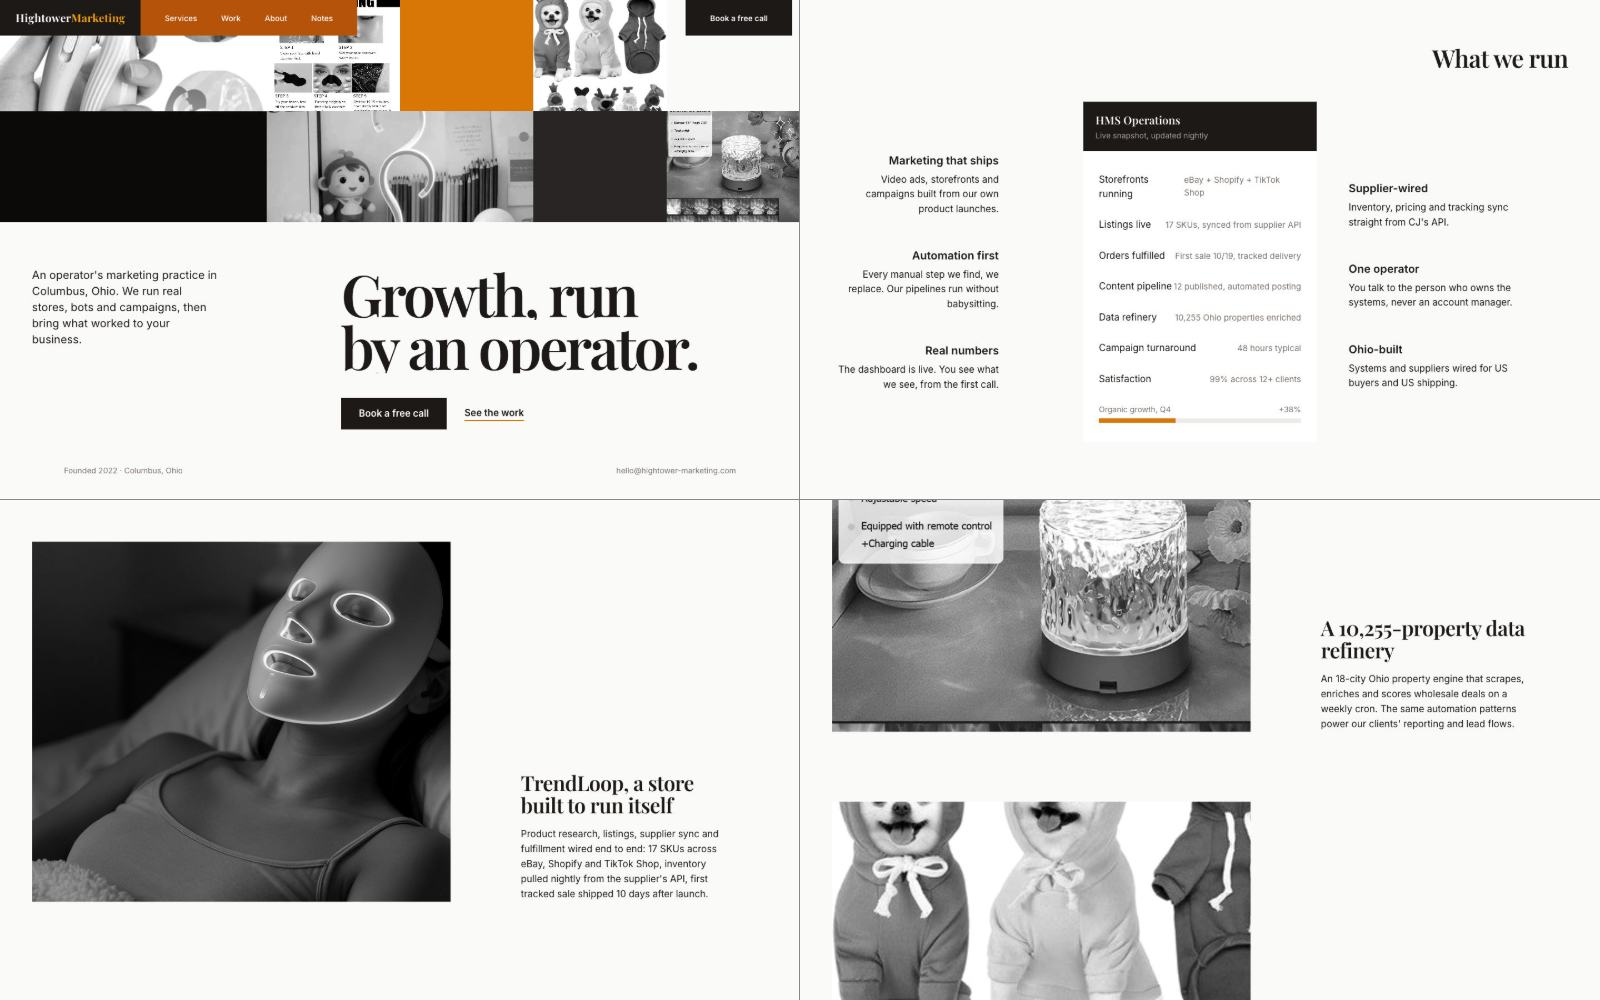
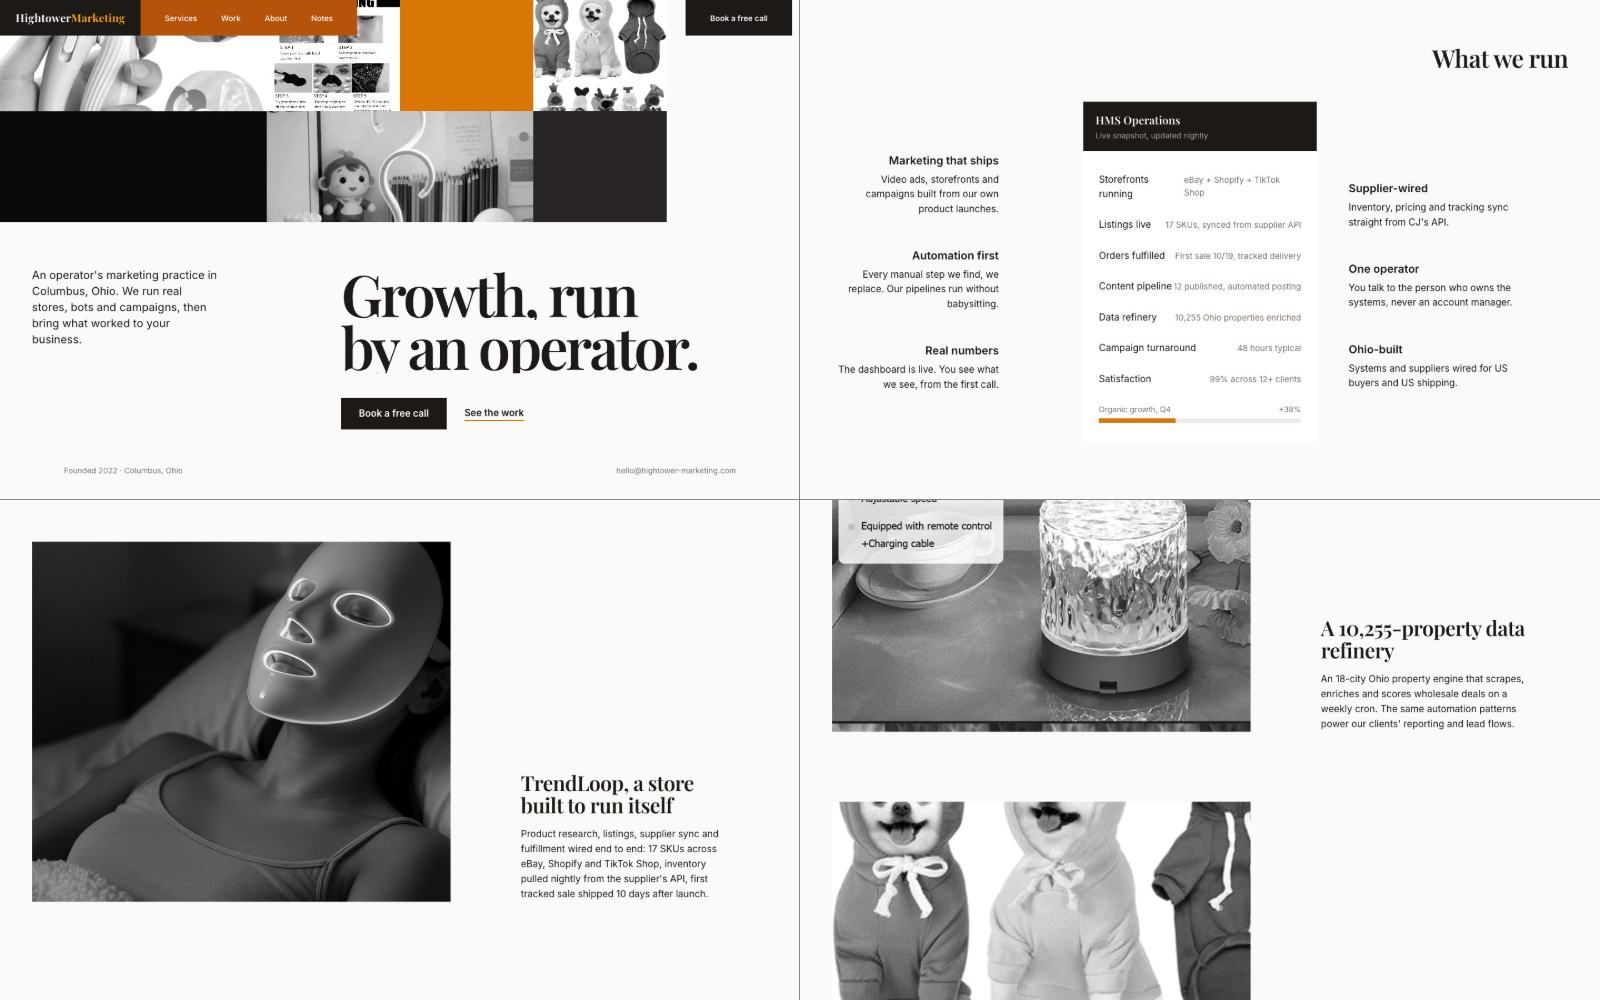
v3.3: Prime r2 fixes — bottom CTA to contact.html (last mailto gone), cta-person photo replaced with honest BH monogram tile, band grid trimmed to exactly 12 cells. Prime r2: 8 RESOLVED, address purge verified clean.

Changed region(s): [[0.4062, 0.093, 0.5, 0.248]]

diff --git a/index.html b/index.html
@@ -213,6 +213,7 @@ ul{list-style:none}
 .cta-statement a{text-decoration:underline;text-decoration-color:var(--gold);text-decoration-thickness:4px;text-underline-offset:8px}
 .cta-statement a:hover,.cta-statement a:focus-visible{color:var(--gold-bright)}
 .cta-sub{grid-column:1/8;font-size:17px;color:var(--soft);margin-top:32px;max-width:52ch}
+.monogram{width:150px;height:150px;background:var(--gold-deep);color:#fff;font-family:'Playfair Display',serif;font-weight:600;font-size:54px;display:flex;align-items:center;justify-content:center;letter-spacing:.02em}
 .cta-person{grid-column:11/13;justify-self:end}
 .cta-person img{width:150px;height:188px;object-fit:cover;filter:grayscale(1) contrast(1.05)}
 .cta-person .who{font-size:14px;color:var(--soft);margin-top:10px;text-align:left}
@@ -261,7 +262,8 @@ footer a:hover,footer a:focus-visible{color:var(--gold-bright)}
   .cta-photos{grid-template-columns:1fr 1fr}
   .cta-photos img:first-child{grid-column:1/3}
   .cta-inner{display:block}
-  .cta-person{margin-top:32px}
+  .monogram{width:150px;height:150px;background:var(--gold-deep);color:#fff;font-family:'Playfair Display',serif;font-weight:600;font-size:54px;display:flex;align-items:center;justify-content:center;letter-spacing:.02em}
+.cta-person{margin-top:32px}
   .cta-statement{font-size:23px}
 }
 </style>
@@ -289,7 +291,6 @@ footer a:hover,footer a:focus-visible{color:var(--gold-bright)}
     <div class="tile-coal cell-2x2"></div>
     <img class="cell-2x1" src="assets/work-question-lamp.jpg" alt="">
     <div class="tile-ground cell-1x1"></div>
-    <img class="cell-1x1" src="assets/work-water-projector.jpg" alt="">
   </div>
 </div>
 
@@ -427,10 +428,10 @@ footer a:hover,footer a:focus-visible{color:var(--gold-bright)}
   </div>
   <div class="cta-band">
     <div class="wrap cta-inner">
-      <p class="cta-statement">Ready to grow without the guesswork? <a href="mailto:hello@hightower-marketing.com">Book a free call</a> and get a real audit of your marketing, not a pitch deck.</p>
+      <p class="cta-statement">Ready to grow without the guesswork? <a href="contact.html">Book a free call</a> and get a real audit of your marketing, not a pitch deck.</p>
       <p class="cta-sub">Columbus, Ohio · hello@hightower-marketing.com · Replies within one business day.</p>
       <div class="cta-person">
-        <img src="assets/work-question-lamp.jpg" alt="" loading="lazy">
+        <div class="monogram" aria-hidden="true">BH</div>
         <p class="who">Blake Hightower. You'll talk to me.</p>
       </div>
     </div>
